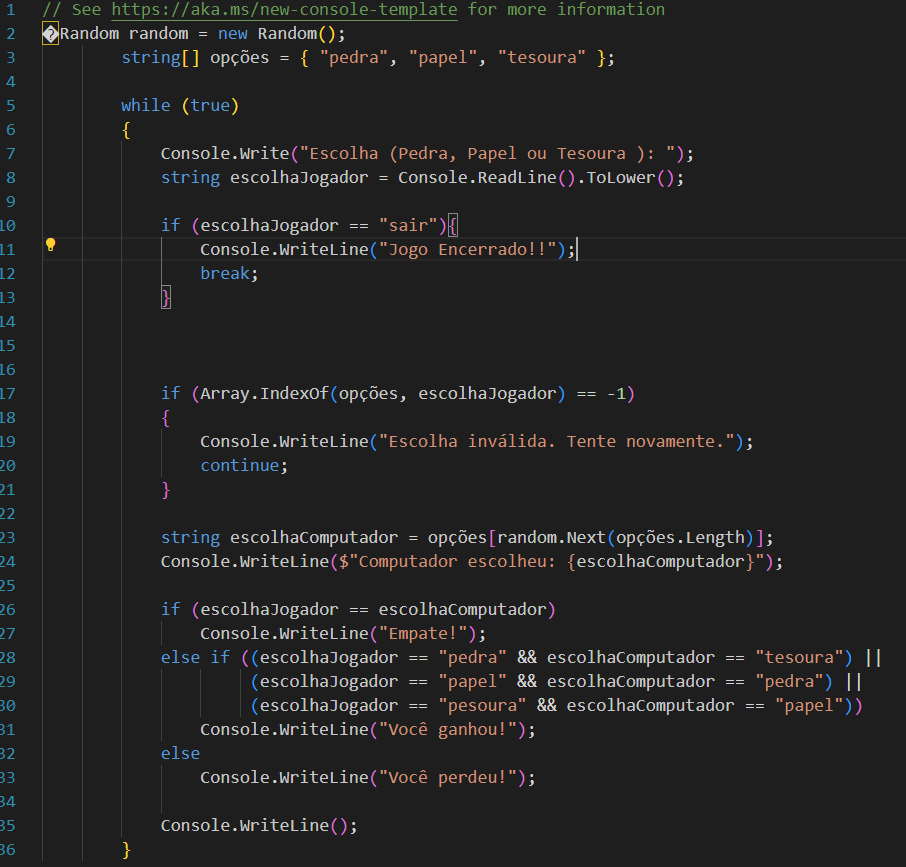
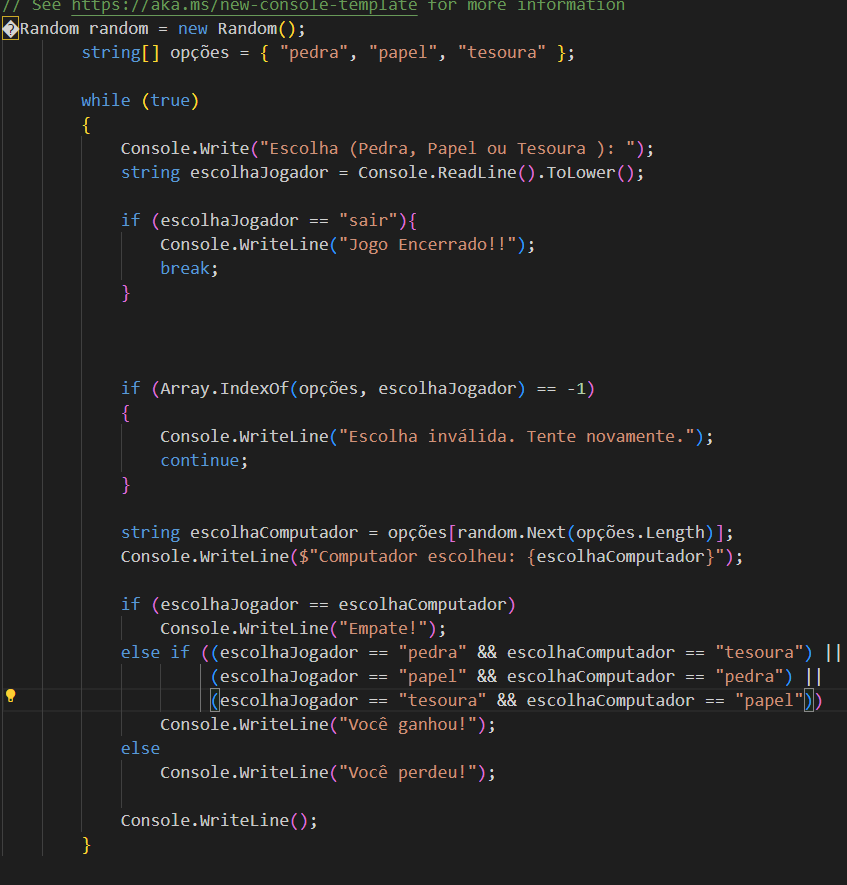
atv

diff --git a/PedraPapelTesoura/Program.cs b/PedraPapelTesoura/Program.cs
@@ -27,7 +27,7 @@
                 Console.WriteLine("Empate!");
             else if ((escolhaJogador == "pedra" && escolhaComputador == "tesoura") ||
                      (escolhaJogador == "papel" && escolhaComputador == "pedra") ||
-                     (escolhaJogador == "pesoura" && escolhaComputador == "papel"))
+                     (escolhaJogador == "tesoura" && escolhaComputador == "papel"))
                 Console.WriteLine("Você ganhou!");
             else
                 Console.WriteLine("Você perdeu!");
